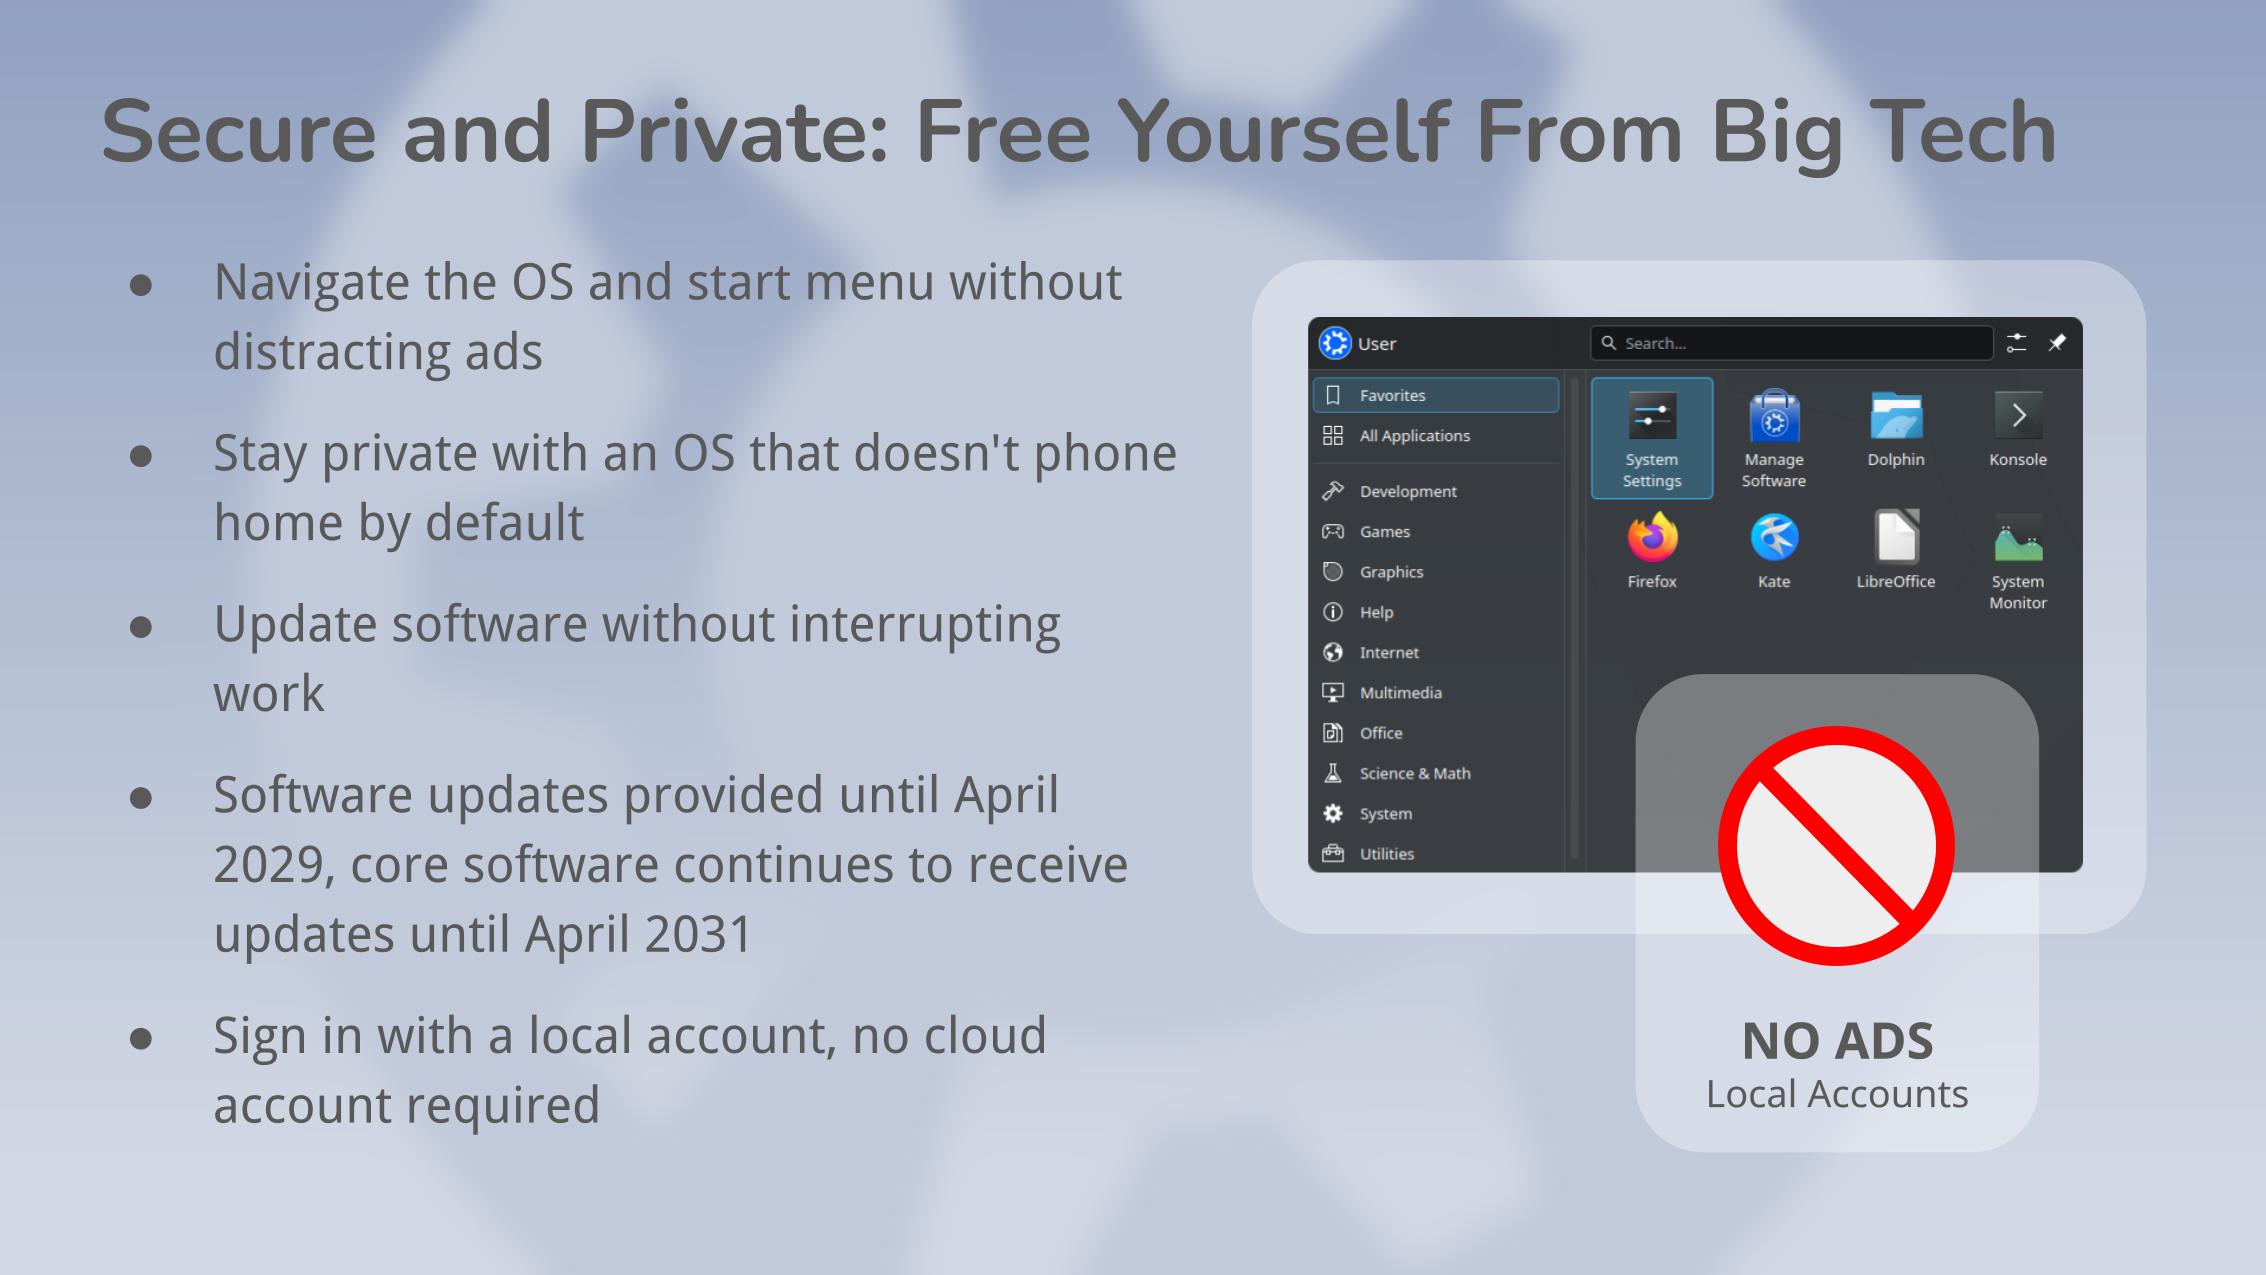
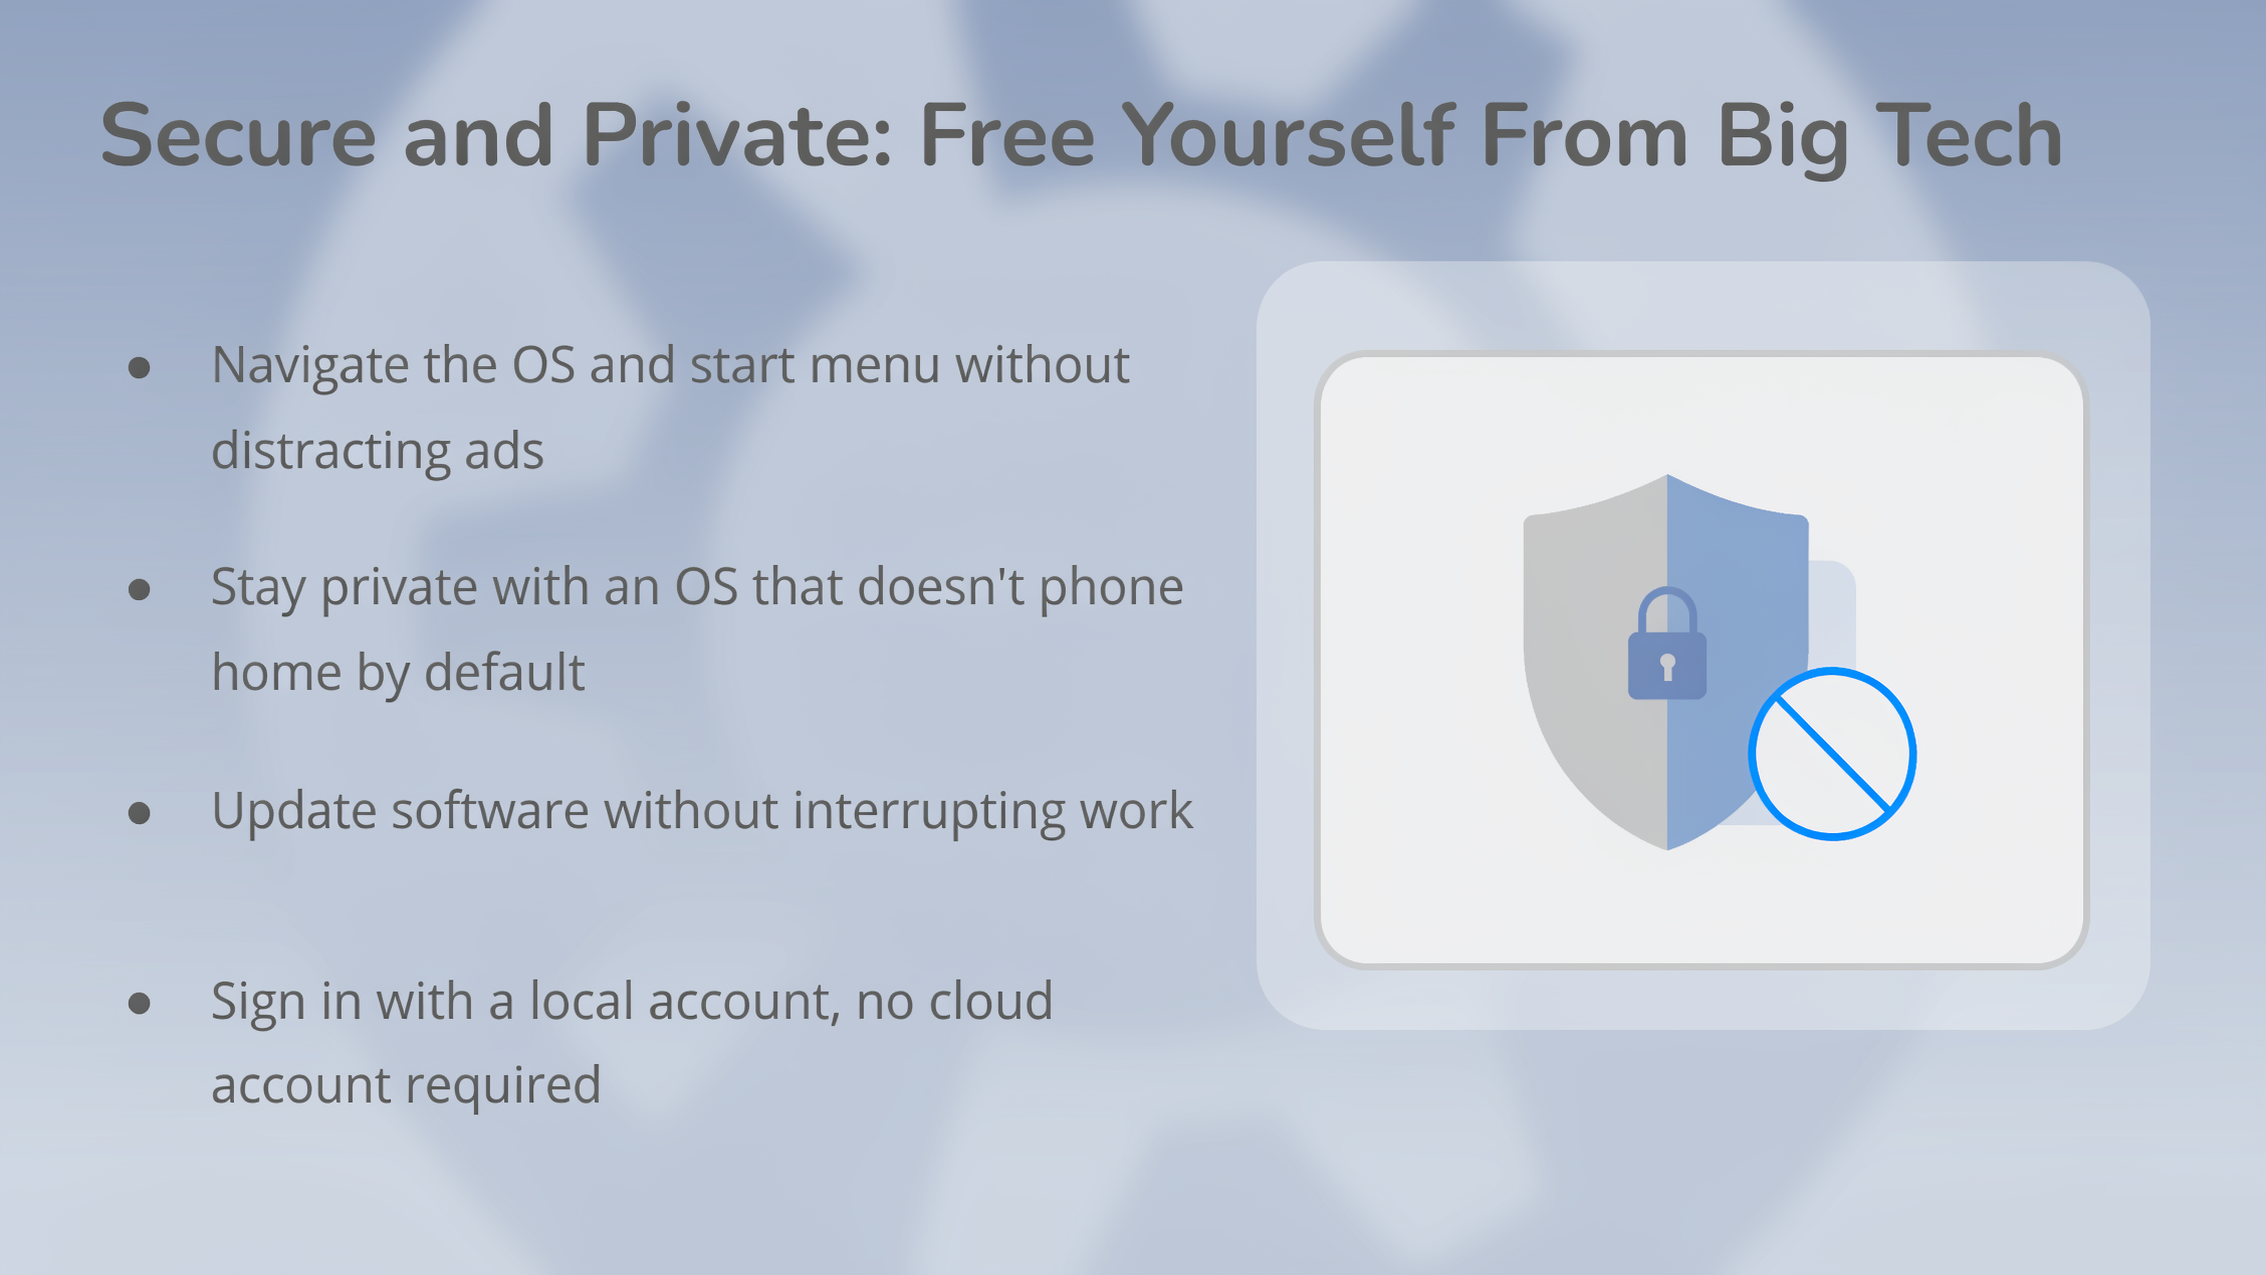
license: expand ZIT Studios exclusions and third party art notices

diff --git a/kzhento/branding/kzhento/show.qml b/kzhento/branding/kzhento/show.qml
@@ -49,18 +49,6 @@ Presentation
     }
     Slide {
         Image {
-            id: image4
-            anchors.centerIn: parent
-            anchors.verticalCenterOffset: - parent.y / 3.6
-            height: parent.masterHeight * 0.95
-            width: parent.masterWidth * 0.95
-            fillMode: Image.PreserveAspectFit
-            smooth: true
-            source: "04-docs-and-support.png"
-        }
-    }
-    Slide {
-        Image {
             id: image5
             anchors.centerIn: parent
             anchors.verticalCenterOffset: - parent.y / 3.6

diff --git a/kzhento/README.md b/kzhento/README.md
@@ -7,6 +7,7 @@ Unless otherwise stated, the contents of this directory are licensed as follows:
 
 Copyright (C) 2018 Lubuntu Developers <lubuntu-devel@lists.ubuntu.com>
 Copyright (C) 2024 Kubuntu Developers <kubuntu-devel@lists.ubuntu.com>
+Derivative work Copyright (C) 2026 ZIT Studio
 
 This program is free software; you can redistribute it and/or
 modify it under the terms of the GNU General Public License
